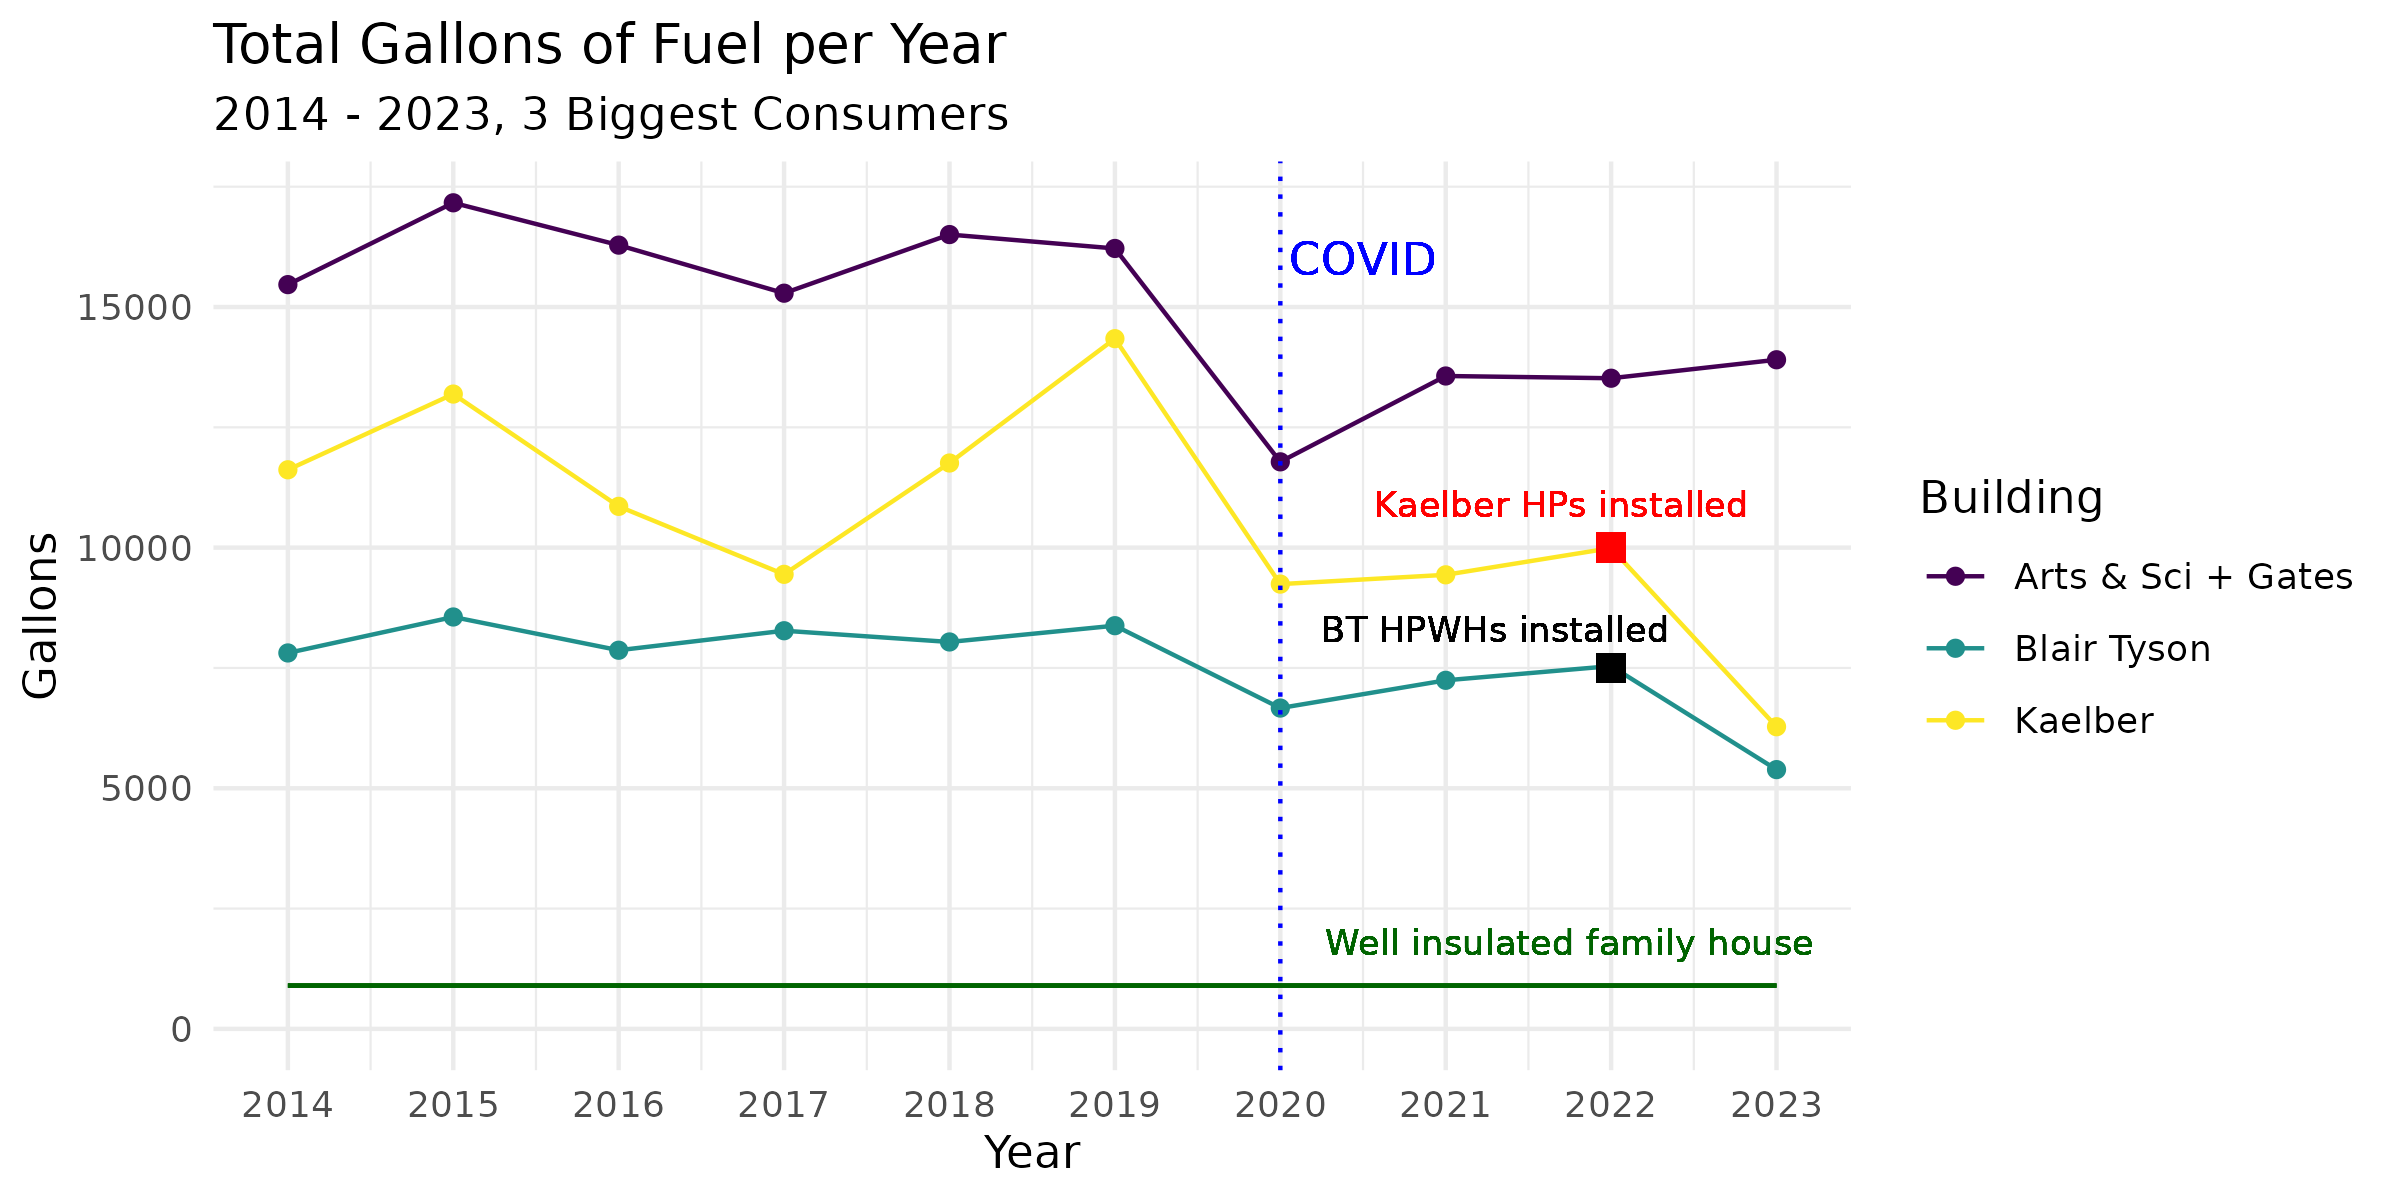
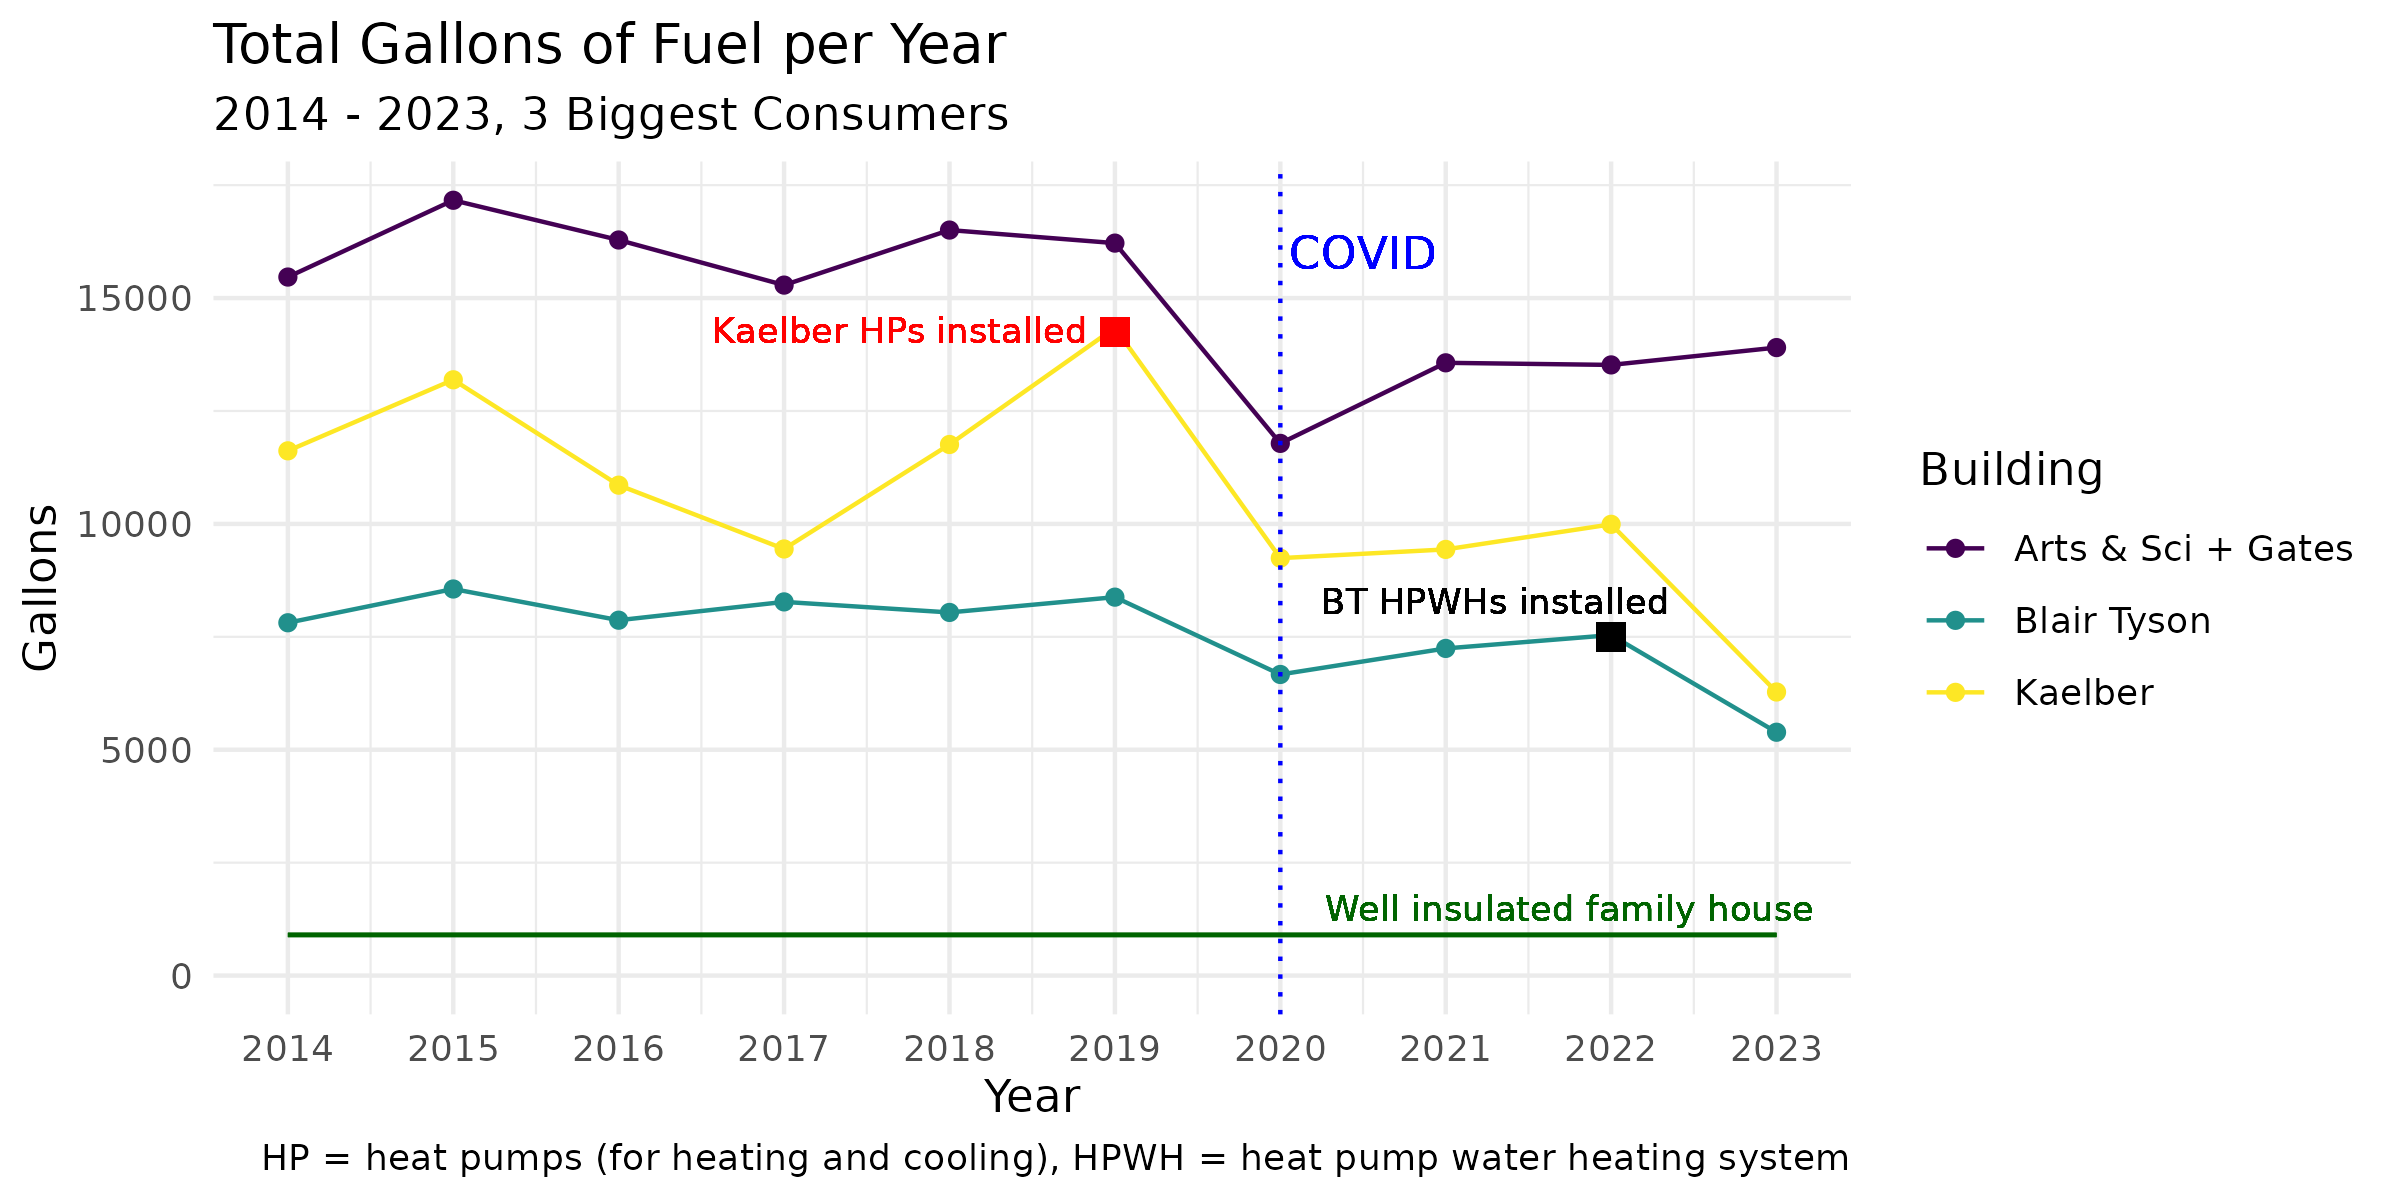
Update 3 biggest consumers over time plot

diff --git a/memo/memo.md b/memo/memo.md
@@ -261,18 +261,18 @@ fuels |>
   labs(title = "Total Gallons of Fuel per Year",
        subtitle = "2014 - 2023, 3 Biggest Consumers",
        y = "Gallons",
-       caption = "Blair Tyson and Kaelber have seen a descrese in fossil fuel consumption while the use by Arts & Sciences and Gates has continued to increase") +
+       caption = "HP = heat pumps (for heating and cooling), HPWH = heat pump water heating system") +
   scale_x_continuous(breaks = seq(from = 2014, to = 2024, by = 1)) +
   ylim(0, NA) +
   scale_color_viridis_d() +
   geom_vline(xintercept = 2020, linetype = "dotted", colour = "blue") +
   geom_text(aes(x = 2020.5, y = 16000), label = "COVID", colour = "blue") +
   geom_text(aes(x = 2021.3, y = 8300), label = "BT HPWHs installed", colour = "black", size = 3) +
-  geom_text(aes(x = 2021.7, y = 10900), label = "Kaelber HPs installed", colour = "red", size = 3) +
-  geom_point(aes(x = 2022, y = 10000), color = "red", size = 3, shape = 15) +
+  geom_text(aes(x = 2017.7, y = 14300), label = "Kaelber HPs installed", colour = "red", size = 3) +
+  geom_point(aes(x = 2019, y = 14250), color = "red", size = 3, shape = 15) +
   geom_point(aes(x = 2022, y = 7500), color = "black", size = 3, shape = 15) +
   geom_line(aes(y = 900), color = "darkgreen") +
-  geom_text(aes(x = 2021.75, y = 1800), label = "Well insulated family house", color = "darkgreen", size = 3)
+  geom_text(aes(x = 2021.75, y = 1500), label = "Well insulated family house", color = "darkgreen", size = 3)
 ```
 
 ![](memo_files/figure-gfm/5_biggest_over_time-1.png)<!-- -->
